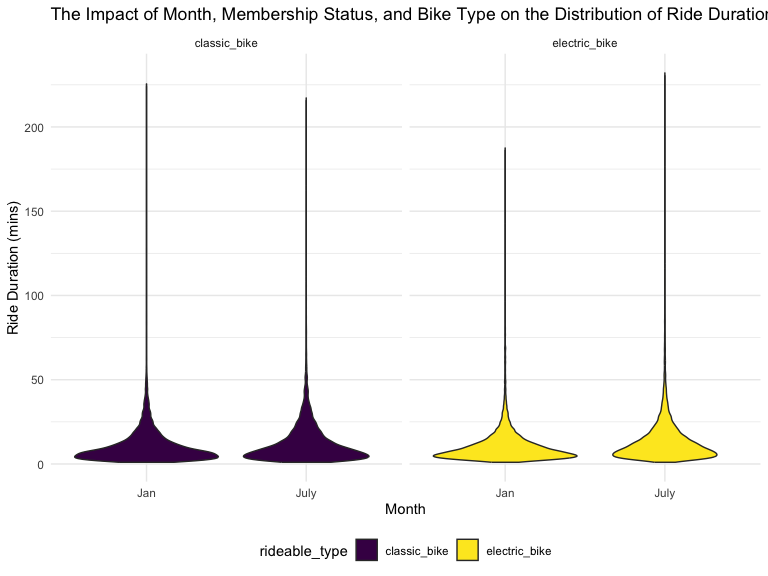
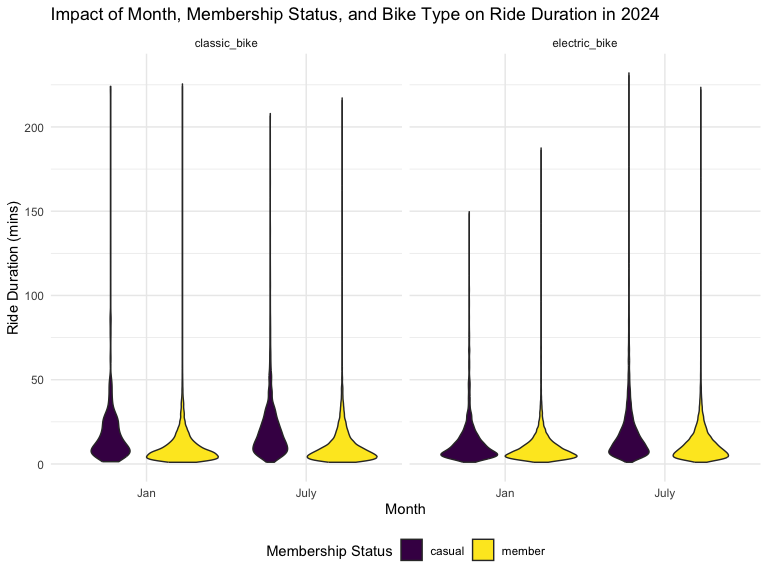
final commit for completion and revisions

diff --git a/p8105homework3.md b/p8105homework3.md
@@ -221,7 +221,7 @@ population.
 ``` r
 Age_distri_in_Edc_plot = Merged_nhanes_dat |> 
   ggplot(aes(x = age, fill = sex)) +
-  geom_density(alpha = .4, adjust = .5) +
+  geom_density(alpha = 0.4, adjust = 0.5) +
   facet_grid(~Education) +
   labs(
     title = "Age Distribution by Education and Gender",
@@ -252,7 +252,7 @@ around that age.
 ``` r
 Total_daily_activity = Merged_nhanes_dat |> 
   group_by(seqn, age, sex, Education) |> 
-  summarise(total_activity = sum(min1:min1440, na.rm = TRUE)) |> 
+  summarise(total_activity = sum(c_across(starts_with("min")), na.rm = TRUE)) |> 
   ggplot(aes(x = age, y = total_activity, color = sex)) +
   geom_point(alpha = 0.5) +
   geom_smooth(se = FALSE) +
@@ -275,32 +275,22 @@ Total_daily_activity
 
 <img src="p8105homework3_files/figure-gfm/unnamed-chunk-7-1.png" width="90%" />
 
-For the first category, “Less than high school,” the overall daily total
-activity appears to be low for both male and female participants, with
-most data points falling below 50 in total activities. Both genders show
-a slight decrease in activity as they age. The trend lines indicate that
-women maintain slightly higher daily activity in middle and older ages,
-while male participants tend to have higher activity levels in younger
-age groups.
-
-For participants with “High school equivalent” degrees, activity levels
-remain low for both males and females. Activity decreases with age for
-both genders. The trend lines suggest that there are no large
-differences between men and women, although men’s activity levels
-continue to decline more consistently compared to women as they age.
-
-In the last category, “More than high school,” both genders display
-higher overall activity levels compared to the other two categories,
-particularly among the younger participants. Women between the ages of
-20 and 60 show higher activity levels compared to men with the same
-education level. The trend lines indicate a decline in men’s total
-activity levels around the age of 40, while women in this group remain
-consistently more active across all ages.
-
-In general, total activity levels decrease with age across all education
-categories. The differences between genders are relatively small, but
-participants with higher education levels tend to have higher total
-activity levels overall.
+For the first category, “Less than high school,” as age rises, overall
+activity gradually decreases for both males and females. Females show
+more variability in activity levels at later ages, whereas males tend to
+start with higher overall activity at earlier ages. However, by the time
+they are 60 years old and beyond, the gap between males and females
+narrows considerably. For participants with “High school equivalent”
+degrees, the overall activity of females peaks more prominently at the
+age of 30, after which it gradually decreases. In contrast, males
+experience a more extensive peak in their activity levels between the
+ages of 30 and 50, after which they drastically decrease. In this
+educational group, females are often more active than males. In the last
+category, “More than high school,” activity levels for both sexes are
+comparatively constant from early years until about age 60, at which
+point they noticeably decline. While in younger age groups, women seem
+to be more active than men, the pattern gradually reverses in middle age
+and then levels off as both sexes get older.
 
 ## Section 4: 24Hr activity patterns by education level and gender
 
@@ -314,21 +304,29 @@ hourly_activity = Merged_nhanes_dat |>
   ) |> 
   mutate(minutes = as.numeric(minutes)) |> 
   ggplot(aes(x = minutes, y = activity, color = sex)) +
-  geom_line(alpha = 0.3) +
-  geom_smooth(method = "loess", se = FALSE) +
+  geom_smooth(se = FALSE) +
   facet_grid(~education) +
   labs(
     title = "24Hr Activity Patterns by Education Level and Gender",
     x = "Minute of the Day",
-    y = "Activity"
+    y = "Activity (MIMS)"
   )
 
 hourly_activity
 ```
 
-    ## `geom_smooth()` using formula = 'y ~ x'
+    ## `geom_smooth()` using method = 'gam' and formula = 'y ~ s(x, bs = "cs")'
 
 <img src="p8105homework3_files/figure-gfm/unnamed-chunk-8-1.png" width="90%" />
+
+According to the graph, the “Less than high school” group demonstrates
+the highest activity levels during the day compared to the other
+education categories. Females tend to maintain slightly higher activity
+levels than males across all education categories, although the
+differences between genders are not very pronounced. Additionally, most
+people tend to engage in higher activity between approximately 500
+minutes and 1250 minutes, with lower activity during the early morning
+and late evening.Afterwards, the activity level droped.
 
 # Problem 3 NYC Citi Bike System Data Exploration
 
@@ -413,41 +411,26 @@ Total_NYCiti =
 
 Total_NYCiti_summary = Total_NYCiti |> 
   group_by(year, month, member_casual) |> 
-  summarise(total_riders = n())
+  summarise(total_riders = n()) |> 
+  pivot_wider(
+    names_from = member_casual,
+    values_from = total_riders
+  )
 ```
 
     ## `summarise()` has grouped output by 'year', 'month'. You can override using the
     ## `.groups` argument.
 
 ``` r
-knitr::kable(Total_NYCiti_summary,
-             col.names = c("Year", "Month", "Member Type", "Total Number of Rides"),
-             caption = "Total Number of Rides by Year, Month, and Rider Type"
-             )
+knitr::kable(Total_NYCiti_summary)
 ```
 
-| Year | Month | Member Type | Total Number of Rides |
-|-----:|:------|:------------|----------------------:|
-| 2020 | Jan   | casual      |                   984 |
-| 2020 | Jan   | member      |                 11436 |
-| 2020 | July  | casual      |                  5637 |
-| 2020 | July  | member      |                 15411 |
-| 2024 | Jan   | casual      |                  2108 |
-| 2024 | Jan   | member      |                 16753 |
-| 2024 | July  | casual      |                 10894 |
-| 2024 | July  | member      |                 36262 |
-
-Total Number of Rides by Year, Month, and Rider Type
-
-According to the table, we can observe that the number of casual riders
-is consistently lower than the number of member riders for every
-combination of year and month. The total number of both casual and
-member riders increased from 2020 to 2024, indicating that more people
-used the service overall in 2024, with a significant increase in those
-registering as members. Additionally, the number of rides taken by
-member riders is substantially higher than those taken by casual riders
-across all combinations of year and month, suggesting that members tend
-to use Citi Bike more frequently than casual users.
+| year | month | casual | member |
+|-----:|:------|-------:|-------:|
+| 2020 | Jan   |    984 |  11436 |
+| 2020 | July  |   5637 |  15411 |
+| 2024 | Jan   |   2108 |  16753 |
+| 2024 | July  |  10894 |  36262 |
 
 ## Section 2: The five most popular starting stations for July 2024
 
@@ -503,21 +486,47 @@ effects_on_median_duration
 
 <img src="p8105homework3_files/figure-gfm/unnamed-chunk-11-1.png" width="90%" />
 
+According to the plots, ride durations in July are typically longer than
+in January, with this pattern being particularly evident in the 2020
+data set. In July 2020, the median ride duration reaches its peak on the
+weekends, whereas in January 2020, it remains relatively stable
+throughout the week. By comparison, the 2024 data set exhibits less
+discrepancy in the median ride duration across the seven-day period in
+both months. The values observed in July are consistently higher than
+those recorded in January for both years. This indicates that ride
+durations are subject to seasonal variations, with July displaying
+longer rides, potentially due to favorable weather conditions.
+Furthermore, there is a noticeable discrepancy between 2020 and 2024,
+with the median ride durations consistently lower in 2024 across both
+months and days of the week.
+
 ## Section 4: The impact of month, membership status, and bike type on the distribution of ride duration in 2024
 
 ``` r
 distri_duration2024 = Total_NYCiti |> 
   filter(year == "2024") |> 
-  ggplot(aes(x = month, y = duration, fill = rideable_type)) +
-  geom_violin(trim = TRUE) +
-  facet_grid(~rideable_type) +
+  ggplot(aes(x = month, y = duration, fill = member_casual)) + 
+  geom_violin(trim = TRUE) + 
+  facet_grid(~rideable_type) + 
   labs(
-    title = "The Impact of Month, Membership Status, and Bike Type on the Distribution of Ride Duration in 2024",
-    x = "Month",
-    y = "Ride Duration (mins)"
+    title = "Impact of Month, Membership Status, and Bike Type on Ride Duration in 2024", 
+    x = "Month", 
+    y = "Ride Duration (mins)", 
+    fill = "Membership Status"
   )
 
 distri_duration2024
 ```
 
 <img src="p8105homework3_files/figure-gfm/unnamed-chunk-12-1.png" width="90%" />
+
+According to the plots, electric bikes consistently show shorter ride
+durations compared to classic bikes, suggesting they might be favored
+for quicker trips. Membership status significantly impacts ride
+duration, with casual riders taking longer trips than members across all
+categories. Seasonal differences are evident, with July rides generally
+lasting longer than January rides, particularly for casual users on
+classic bikes. This seasonal effect is less pronounced for electric
+bikes, indicating their utility year-round. Casual riders exhibit more
+variability in ride duration, especially with classic bikes, while
+members show more consistent usage patterns.
